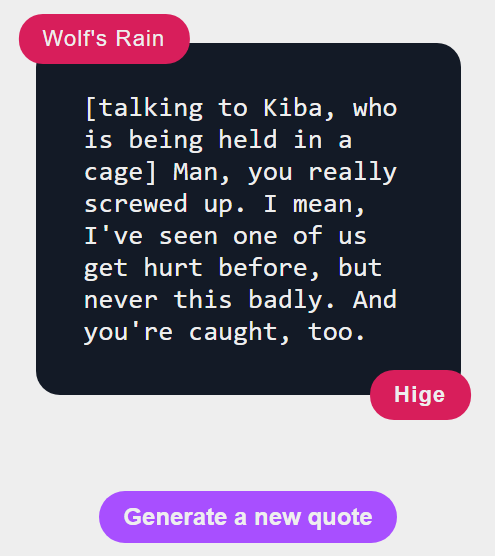
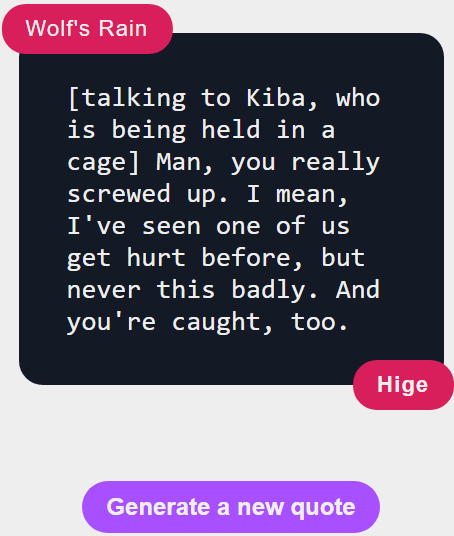
Messages done

Changed region(s): [[0.1233, 0.1493, 0.8326, 0.6269], [0.0, 0.0, 1.0, 0.7761], [0.1542, 0.8657, 0.8634, 1.0]]

diff --git a/src/components/Styles/sendMessage.css b/src/components/Styles/sendMessage.css
@@ -1,68 +1,5 @@
 
 
-@media screen and (max-width: 500px){
-    .wrapper{
-        width: 100%;
-        font-family: 'Roboto', sans-serif;
-        font-weight: 900;
-        padding: 4em 0em;
-    }   
-
-    header h1{
-        font-size: 30px;
-        text-align: center;
-    }
-
-    .textbox{
-        width: 90vw;
-        height: 2em;
-        font-size: 20px;
-        border: solid 3px #3c3096dc; 
-        border-radius: 10px;
-    }
-
-    #btn-submit{
-  color: #3c3096dc;
-  border: 2px solid #3c3096dc;
-  border-radius: 30px;
-  padding: 6px;
-  font-family: 'Roboto', sans-serif;
-  margin-top: 1.3rem;
-  font-weight: 700;
-  font-size: 22px;
-  width: 90vw;
-    }
-
-    #btn-submit:hover{
-        color: var(--sendMessageBtn-hoverColor);
-        background-color: var(--underline-link-color);
-        transition: 0.3s;
-        font-weight: 700;
-    }
-
-    .form{
-        display: flex;
-        flex-direction: column;
-        align-items: center;
-        margin-top: 30px;
-    }
-
-    label{
-        font-size: 1.5px;
-        color: gray;
-        margin: 0.5em;
-    }
-
-    textarea{
-        width: 90vw;
-        height: 35vh;
-        font-size: 1.5px;
-        border: none;
-        border: solid 3px #3c3096dc; 
-        border-radius: 10px;
-        resize: none;
-    }
-}
 
 
 
@@ -96,7 +33,7 @@
   margin-top: 2.5rem;
   font-weight: 700;
   font-size: 1.5rem;
-  width: 93vw;
+  width: 10rem;
     }
 
     #btn-submit:hover{
@@ -130,6 +67,7 @@
     }
 }
 
+
 @media screen and (min-width: 769px){
     .wrapper{
         width: 100%;
@@ -145,8 +83,8 @@
 
     .textbox{
         width: 30rem;
-        height: 2.8rem;
-        font-size: 1.5rem;
+        height: 2rem;
+        font-size: 1.3rem;
         border: solid 3px #3c3096dc; 
         border-radius: 10px;
     }
@@ -159,7 +97,7 @@
   font-family: 'Roboto', sans-serif;
   margin-top: 2.5rem;
   font-weight: 700;
-  font-size: 1.5rem;
+  font-size: 1.3rem;
   width: 10rem;
     }
 
@@ -186,7 +124,7 @@
     .textarea{
         width: 30rem;
         height: 20rem;
-        font-size: 1.3rem;
+        font-size: 1rem;
         border: none;
         border: solid 3px #3c3096dc; 
         border-radius: 10px;

diff --git a/src/components/Styles/ProjectsStyles.css b/src/components/Styles/ProjectsStyles.css
@@ -1,9 +1,22 @@
 
-    .projects{
-        height: 100%;
-        width: 100vw;
-        text-align: center;
-        font-family: 'Roboto', sans-serif;
-        font-size: 1rem;
-        margin-top: 1.3rem;
+    @media screen and (max-width: 500px){
+        .projects{
+            height: 100%;
+            text-align: center;
+            font-family: 'Roboto', sans-serif;
+            font-size: 1rem;
+            margin-top: 1.3rem;
+            padding: 0%;
+            margin: 0;
+        }
+    }
+ 
+    @media screen and (min-width: 501px){
+        .projects{
+            height: 100%;
+            text-align: center;
+            font-family: 'Roboto', sans-serif;
+            font-size: 1.3rem;
+            margin-top: 1.3rem;
+        }
     }

diff --git a/src/components/Styles/AboutMeStyles.css b/src/components/Styles/AboutMeStyles.css
@@ -1,13 +1,17 @@
 @media screen and (max-width: 500px){
+    
     .about{
         text-align: center;
         font-family: 'Roboto', 'sans-serif';
-        font-size: 22px;
+        font-size: 1rem;
         color: white;
         background: #3c3096dc;
         margin: 0px;
         padding: 5rem 1rem 3rem 1rem;
         }
+     li{
+         list-style: none;
+     }   
 
 }
 
@@ -15,7 +19,7 @@
     .about{
         text-align: center;
         font-family: 'Roboto', 'sans-serif';
-        font-size: 2.3rem;
+        font-size: 1.3rem;
         color: white;
         background: #3c3096dc;
         margin: 0rem;

diff --git a/src/components/Styles/NavStyles.css b/src/components/Styles/NavStyles.css
@@ -37,7 +37,7 @@ html {
   font-family: 'Roboto', sans-serif;
   margin-top: 1rem;
   font-weight: 700;
-  font-size: 1rem;
+  font-size: 1.2rem;
 }
 
 
@@ -62,7 +62,7 @@ html {
 
 .link{
   font-family: 'Roboto', sans-serif;
-  font-size: 1rem;
+  font-size: 1.2rem;
   font-weight: 700;
 }
 
